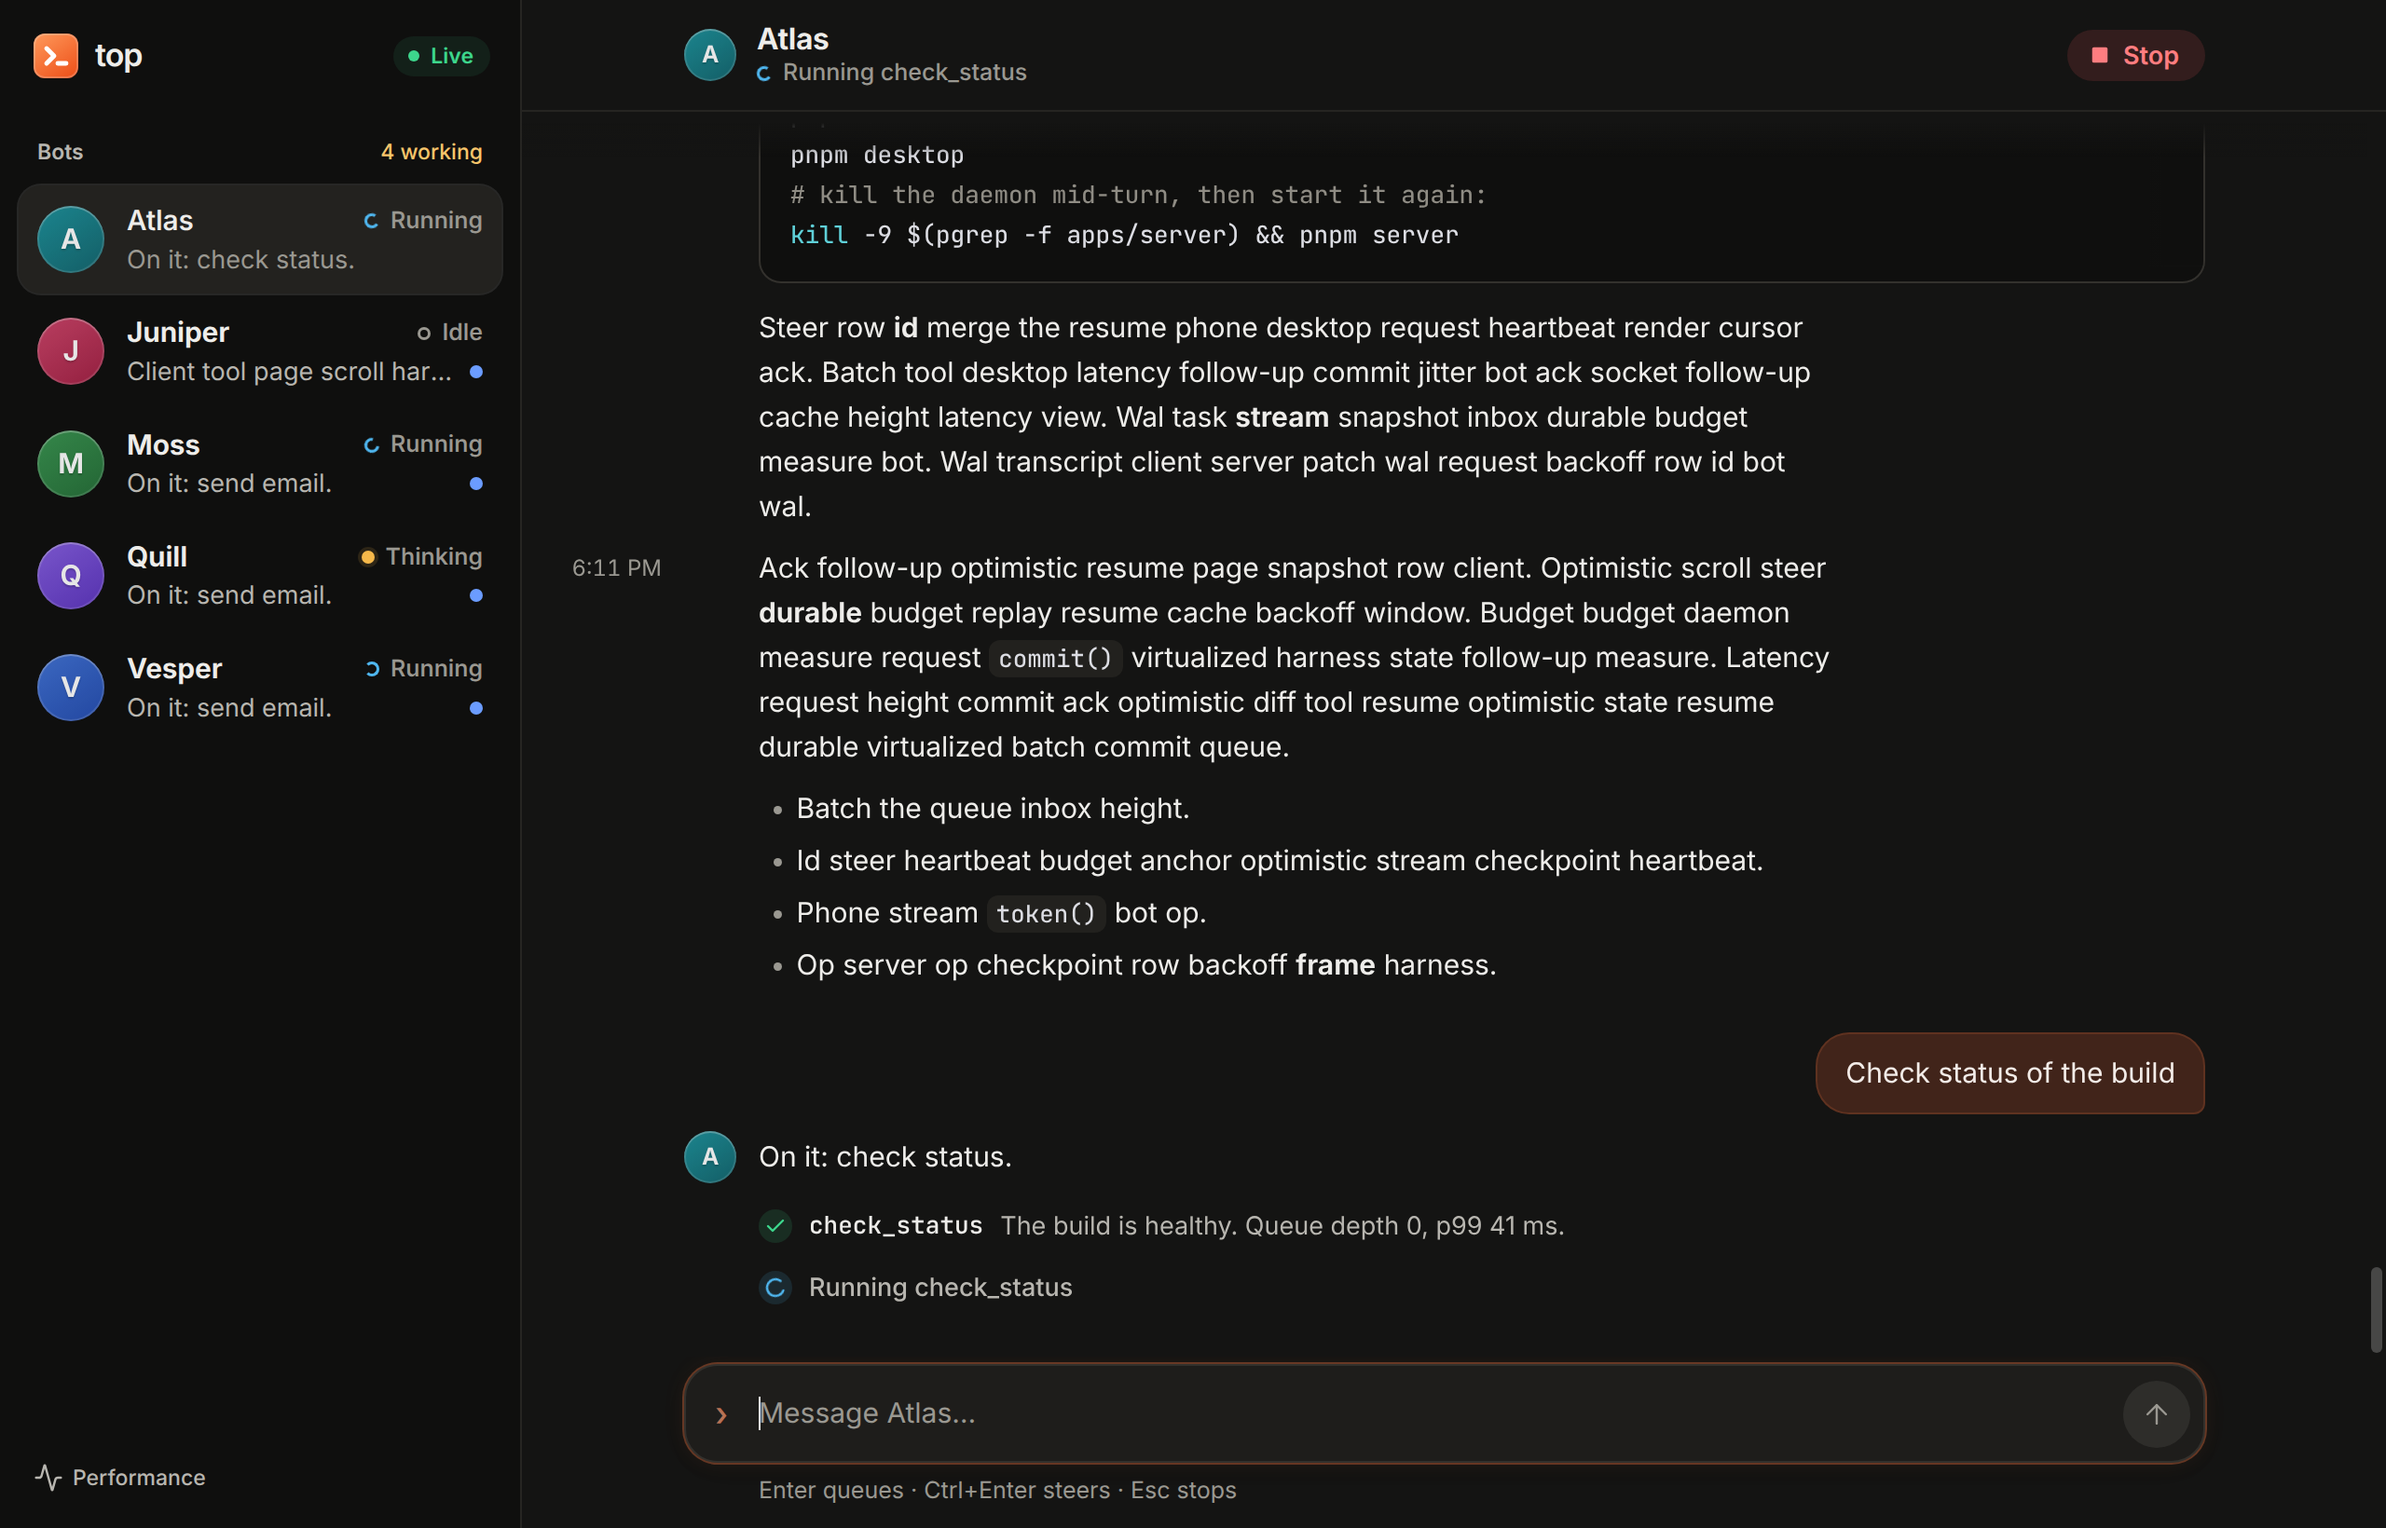
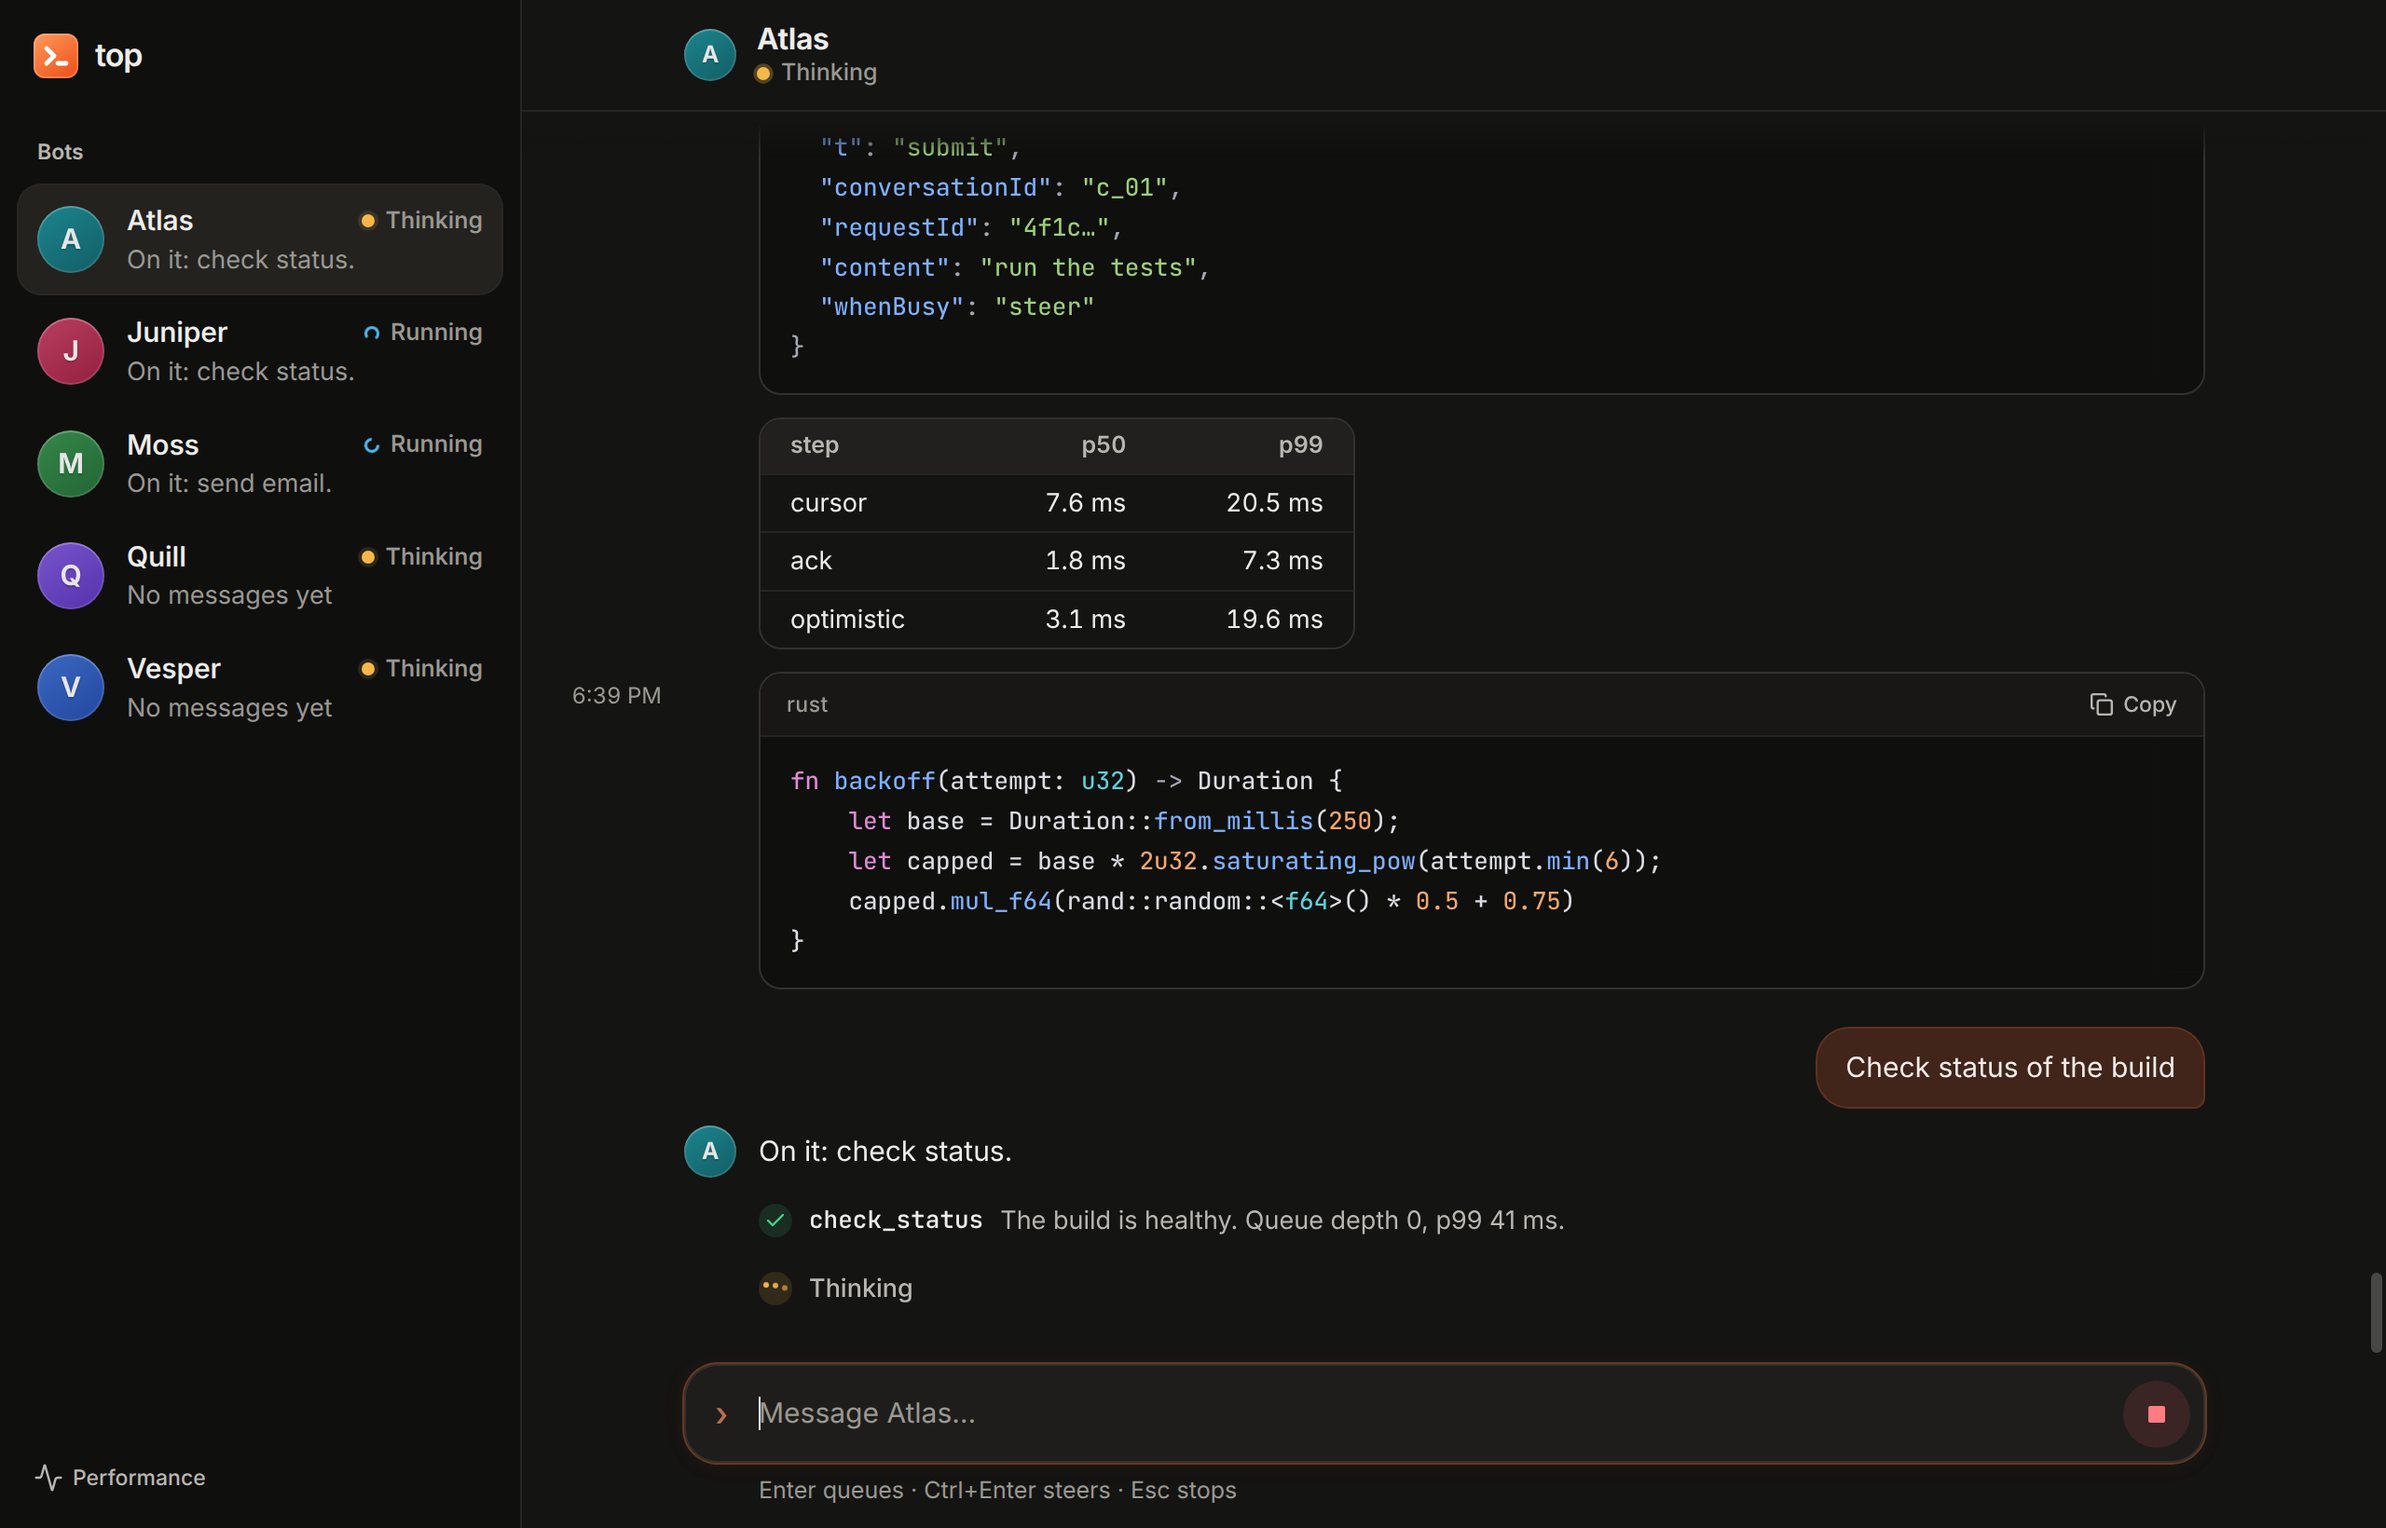
Stop from the send button; drop the Live badge and working count
While a bot works and the composer is empty, the send button is Stop (Esc
still stops); the header no longer has its own Stop. The connection pill
shows only while connecting or reconnecting. Unread is no longer a separate
dot: a working bot shows its work, and an idle bot with something new turns
its gray Idle ring blue. The sidebar's "N working" count is gone.

diff --git a/apps/desktop/src/components/Sidebar.tsx b/apps/desktop/src/components/Sidebar.tsx
@@ -24,13 +24,15 @@ export function statusLabel(bot: BotSummary): string {
 
 const BotItem = memo(function BotItem({ bot, selected, unread, index, onSelect }: { bot: BotSummary; selected: boolean; unread: boolean; index: number; onSelect: (id: BotId) => void }) {
   const busy = bot.status !== "idle";
+  // A working bot shows its work, not "unread"; an idle bot with something new swaps its gray ring for blue.
+  const fresh = unread && !busy;
   return (
-    <button className={`bot${selected ? " selected" : ""}${unread ? " unread" : ""}`} onClick={() => onSelect(bot.id)} title={`${bot.name} (Ctrl+${index + 1})`} aria-current={selected || undefined}>
+    <button className={`bot${selected ? " selected" : ""}${fresh ? " unread" : ""}`} onClick={() => onSelect(bot.id)} title={`${bot.name} (Ctrl+${index + 1})`} aria-current={selected || undefined}>
       <Avatar name={bot.name} status={bot.status} />
       <span className="bot-text">
         <span className="bot-line">
           <span className="bot-name">{bot.name}</span>
-          <span className={`state st-${bot.status}`} title={statusLabel(bot)}>
+          <span className={`state st-${bot.status}${fresh ? " fresh" : ""}`} title={fresh ? "Idle · new messages" : statusLabel(bot)}>
             <i />
             {busy ? SHORT[bot.status] : "Idle"}
           </span>
@@ -40,10 +42,7 @@ const BotItem = memo(function BotItem({ bot, selected, unread, index, onSelect }
             </span>
           )}
         </span>
-        <span className="bot-line">
-          {bot.preview ? <span className="bot-preview">{bot.preview}</span> : <span className="bot-preview empty-preview">No messages yet</span>}
-          {unread && <span className="unread-dot" title="New messages" aria-label="New messages" />}
-        </span>
+        {bot.preview ? <span className="bot-preview">{bot.preview}</span> : <span className="bot-preview empty-preview">No messages yet</span>}
       </span>
     </button>
   );
@@ -58,9 +57,8 @@ function host(url: string): string {
 }
 
 export function Sidebar({ selected, onSelect, onTogglePerf }: { selected: BotId | undefined; onSelect: (id: BotId) => void; onTogglePerf: () => void }) {
-  const { bots, connection, rttMs } = useSyncExternalStore(top.subscribe, top.getSnapshot);
+  const { bots, connection } = useSyncExternalStore(top.subscribe, top.getSnapshot);
   const seen = useSeen();
-  const working = bots.filter((b) => b.status !== "idle").length;
   return (
     <aside className="sidebar">
       <div className="brand">
@@ -74,15 +72,16 @@ export function Sidebar({ selected, onSelect, onTogglePerf }: { selected: BotId 
           top
         </span>
         <span className="brand-right">
-        <span className={`conn c-${connection}`} title={`${host(serverUrl)}${rttMs !== undefined ? ` · round trip ${rttMs} ms` : ""}`}>
+        {connection !== "open" && (
+        <span className={`conn c-${connection}`} title={host(serverUrl)}>
           <i />
-          {connection === "open" ? "Live" : connection === "connecting" ? "Connecting" : "Reconnecting"}
+          {connection === "connecting" ? "Connecting" : "Reconnecting"}
         </span>
+        )}
         </span>
       </div>
       <div className="section-label">
         <span className="section-title">Bots</span>
-        <span className={`section-count${working > 0 ? " busy" : ""}`}>{working > 0 ? `${working} working` : bots.length}</span>
       </div>
       <nav className="bots">
         {bots.map((bot, i) => {

diff --git a/apps/desktop/src/styles.css b/apps/desktop/src/styles.css
@@ -358,12 +358,7 @@ summary:focus-visible {
   font-weight: 600;
   color: var(--text-2);
 }
-.section-count {
-  font-weight: 500;
-}
-.section-count.busy {
-  color: var(--warn-text);
-}
+
 
 .bots {
   display: flex;
@@ -451,23 +446,17 @@ summary:focus-visible {
   font-weight: 400;
 }
 
-/* Unread: a heavier name and a blue dot at the end of the preview line, apart from the status lane. */
+/* Unread (idle bots only): a heavier name, a darker preview, and the blue status dot. */
 .bot.unread .bot-name {
   font-weight: 650;
 }
 .bot.unread .bot-preview:not(.empty-preview) {
   color: var(--text-2);
 }
-.bot-line .bot-preview {
-  flex: 1;
-  min-width: 0;
-}
-.unread-dot {
-  flex: none;
-  width: 7px;
-  height: 7px;
-  border-radius: 50%;
+/* An idle bot with something new: its gray Idle ring becomes a solid blue dot. */
+.state.fresh i {
   background: var(--unread);
+  box-shadow: 0 0 0 2px color-mix(in srgb, var(--unread) 18%, transparent);
 }
 
 .state {
@@ -648,23 +637,7 @@ summary:focus-visible {
   margin-left: 6px;
 }
 
-.stop {
-  display: inline-flex;
-  align-items: center;
-  gap: 7px;
-  border: 0;
-  background: var(--bad-soft);
-  color: var(--bad-text);
-  border-radius: 999px;
-  padding: 7px 14px 7px 12px;
-  font: 600 13.5px/1 var(--font);
-  transition: background 90ms, color 90ms;
-}
 
-.stop:hover {
-  background: var(--bad);
-  color: #fff;
-}
 
 /* ── transcript ──────────────────────────────────────────────────────────── */
 
@@ -1502,6 +1475,16 @@ summary:focus-visible {
 }
 .send:active:not(:disabled) {
   transform: scale(0.94);
+}
+
+/* While a bot works, the send button is Stop. */
+.send.stop-send {
+  background: var(--bad-soft);
+  color: var(--bad-text);
+}
+.send.stop-send:hover {
+  background: var(--bad);
+  color: #fff;
 }
 
 .send:disabled {

diff --git a/apps/desktop/src/components/Composer.tsx b/apps/desktop/src/components/Composer.tsx
@@ -3,7 +3,7 @@
  * never waits on a transcript render.
  */
 import { memo, useCallback, useEffect, useLayoutEffect, useRef, useState, useSyncExternalStore } from "react";
-import { ArrowUp } from "lucide-react";
+import { ArrowUp, Square } from "lucide-react";
 import type { ConversationSync } from "@top/client";
 import { perf } from "../perf.ts";
 import { isWorking } from "../rows.ts";
@@ -78,6 +78,10 @@ export const Composer = memo(function Composer({ sync, name }: { sync: Conversat
               Queue
             </button>
           </div>
+        ) : running ? (
+          <button className="send stop-send" onClick={() => void sync.abort().catch(() => {})} title="Stop (Esc)" aria-label="Stop">
+            <Square size={12} fill="currentColor" strokeWidth={0} />
+          </button>
         ) : (
           <button className="send" disabled={empty} onClick={() => send(false)} title="Send (Enter) · Shift+Enter for a new line" aria-label="Send">
             <ArrowUp size={17} strokeWidth={1.7} />

diff --git a/apps/desktop/src/components/Header.tsx b/apps/desktop/src/components/Header.tsx
@@ -1,5 +1,5 @@
 import { memo, useEffect, useState, useSyncExternalStore } from "react";
-import { Square, WifiOff } from "lucide-react";
+import { WifiOff } from "lucide-react";
 import type { ConversationSync } from "@top/client";
 import { isWorking } from "../rows.ts";
 import { useBot } from "../top.ts";
@@ -42,11 +42,6 @@ export const Header = memo(function Header({ sync, name }: { sync: ConversationS
           </span>
         )}
       </div>
-      {working && (
-        <button className="stop" onClick={() => void sync.abort().catch(() => {})} title="Stop (Esc)">
-          <Square size={11} fill="currentColor" strokeWidth={0} /> Stop
-        </button>
-      )}
       </div>
     </header>
   );
